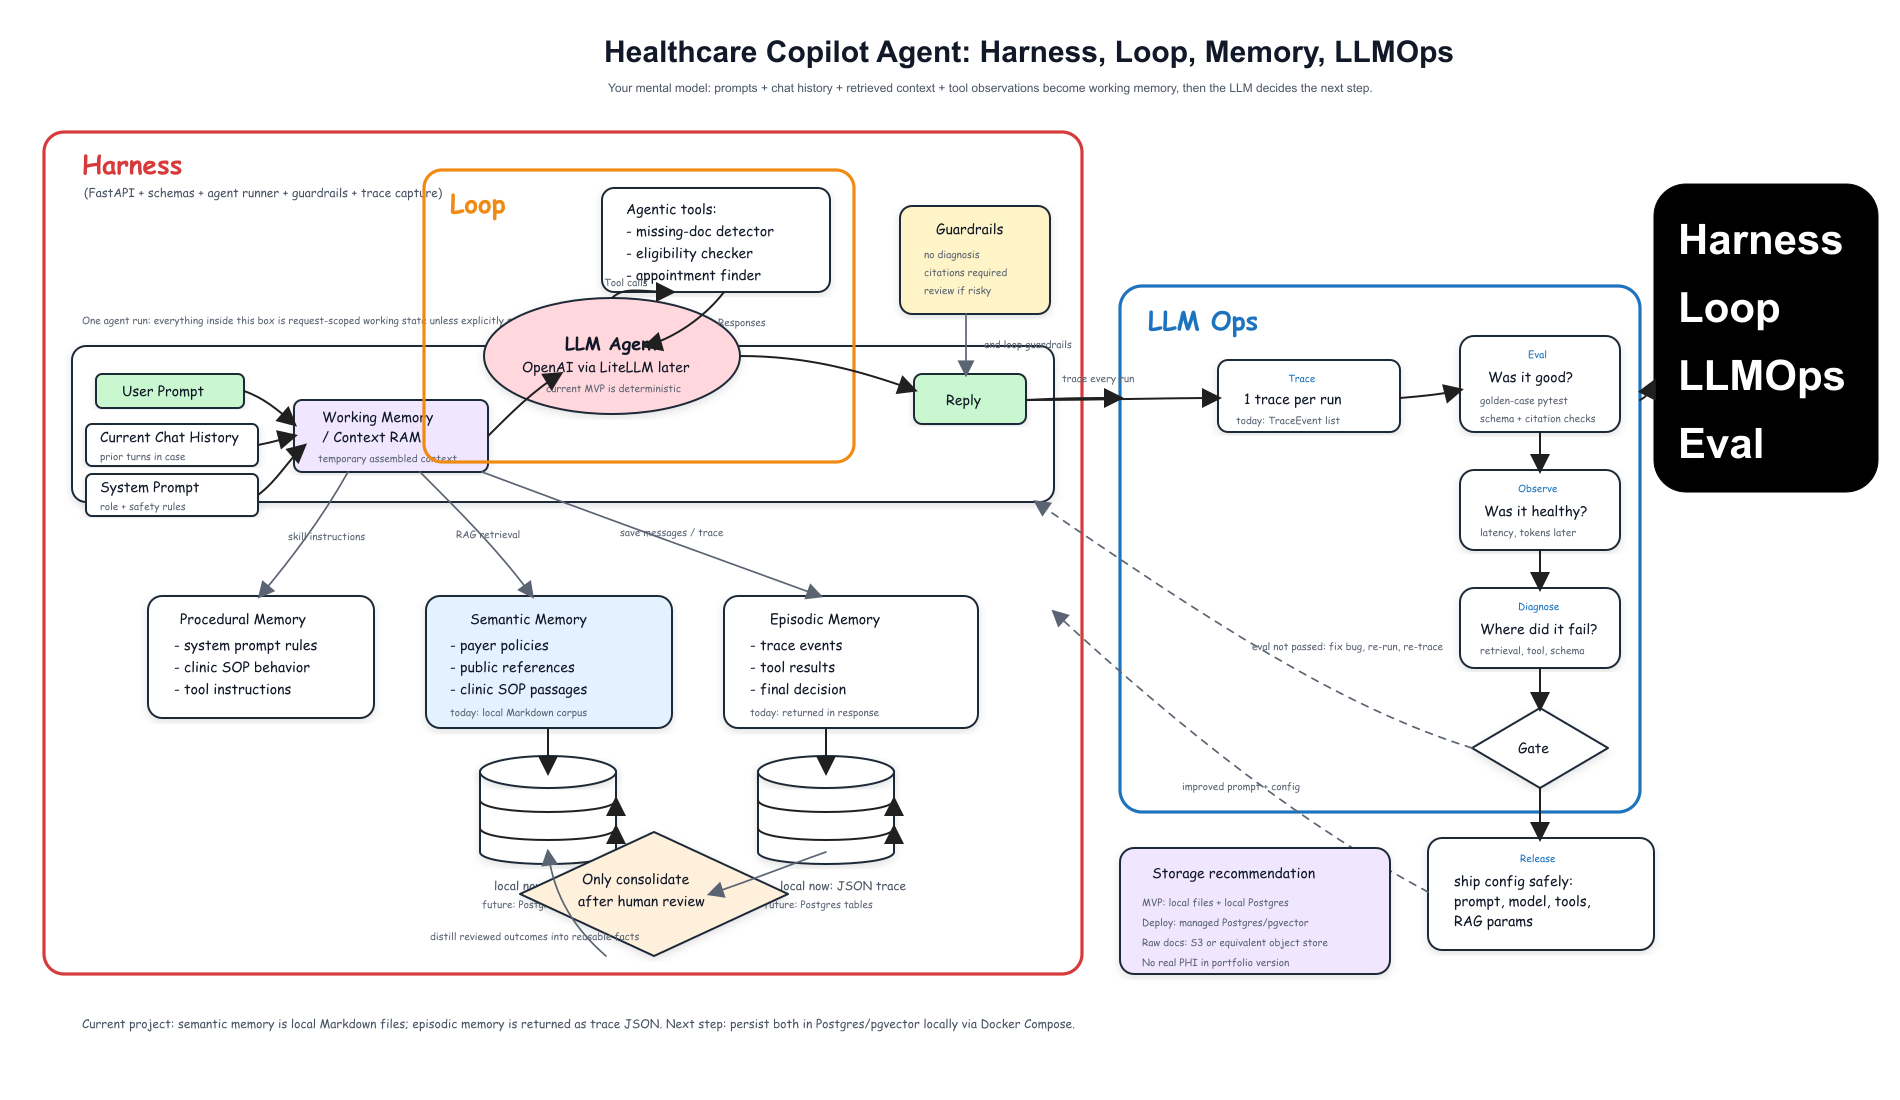
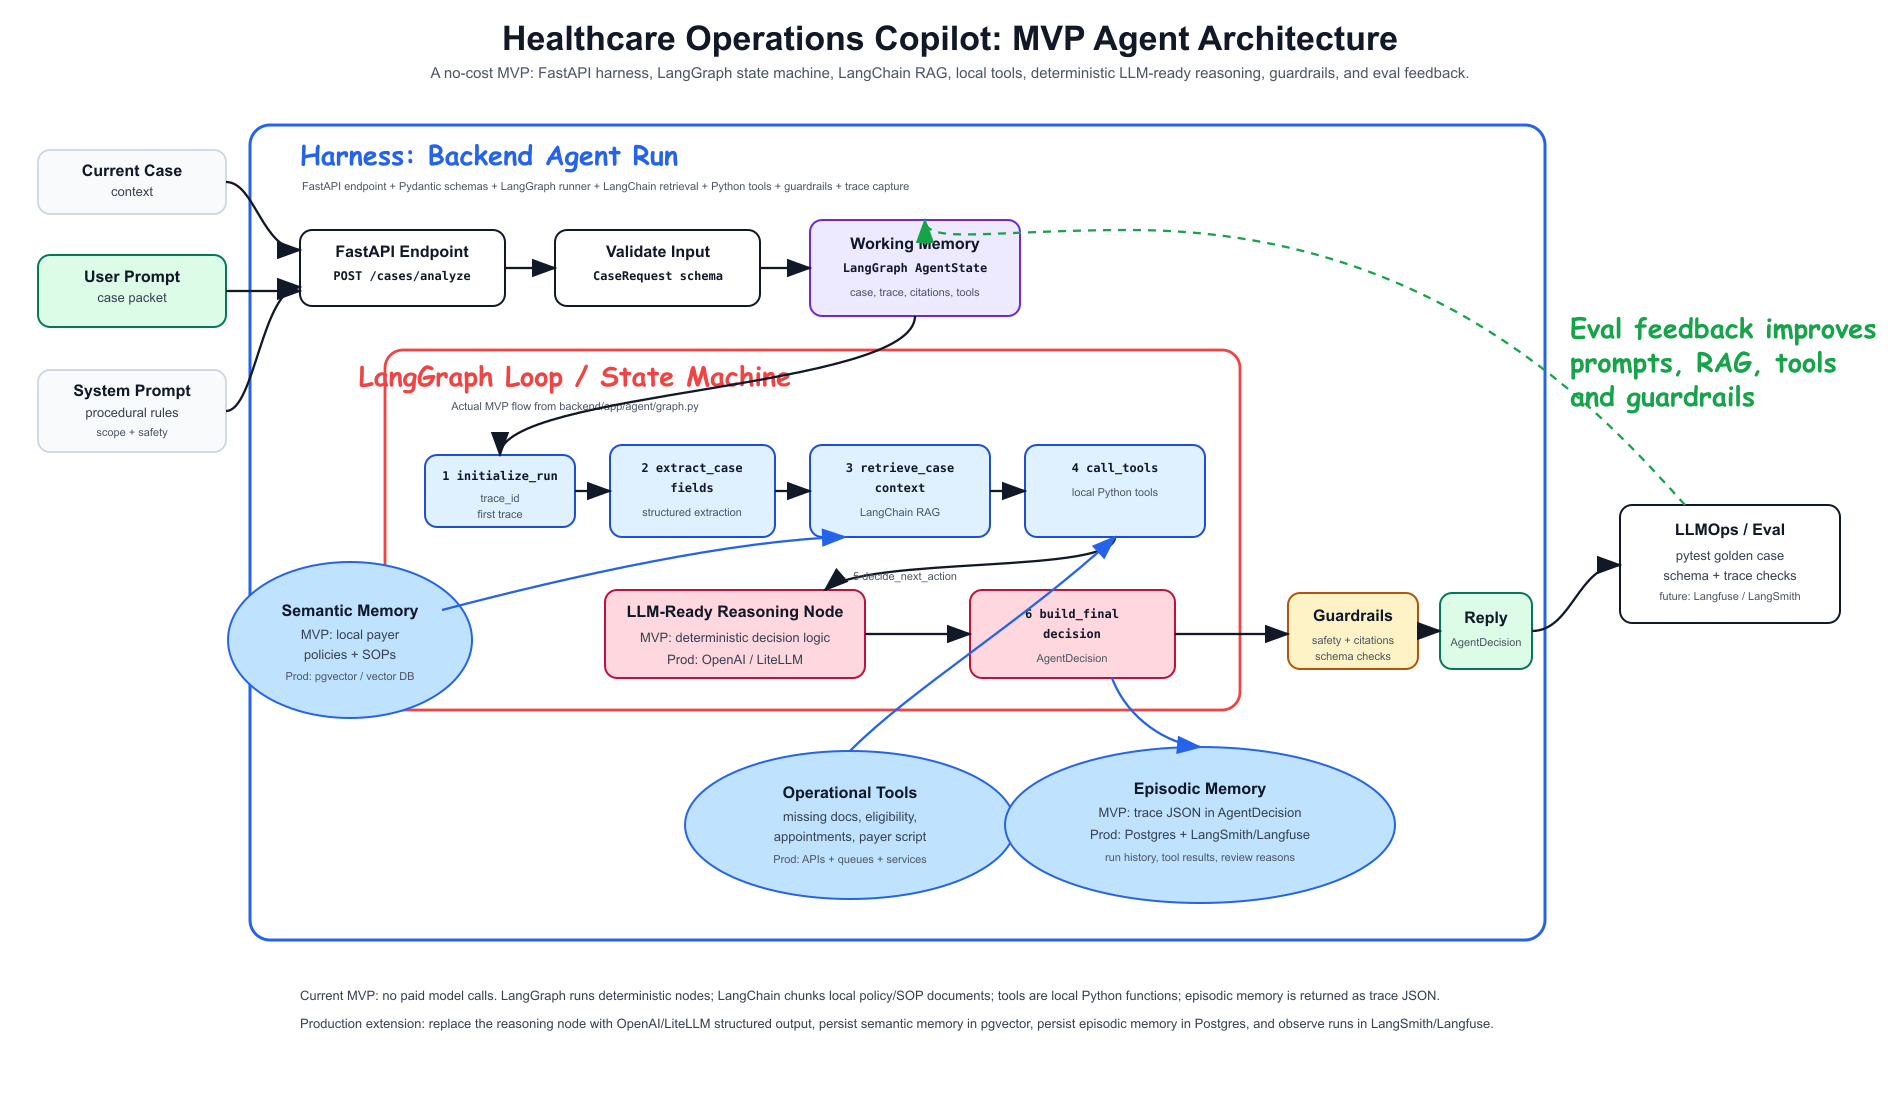
Update healthcare copilot architecture

Changed region(s): [[0.0, 0.0, 0.9937, 0.9582]]

diff --git a/_projects/healthcare_operations_copilot.md b/_projects/healthcare_operations_copilot.md
@@ -7,13 +7,13 @@ importance: 0
 category: portfolio
 ---
 
-Built a production-style healthcare operations copilot that analyzes synthetic referral and intake cases, retrieves payer policy and clinic SOP evidence, calls operational tools, and returns a structured next-action recommendation with confidence, source citations, and human-review flags.
+Built a production-style healthcare operations copilot MVP that analyzes synthetic referral and intake cases, retrieves payer policy and clinic SOP evidence, calls operational tools, and returns a structured next-action recommendation with confidence, source citations, and human-review flags.
 
 GitHub: [marcin-ogrodniczuk/healthcare-ai-agent](https://github.com/marcin-ogrodniczuk/healthcare-ai-agent)
 
-The goal of this project is to demonstrate practical LLM production engineering: not just prompting a model, but building the surrounding harness, agent loop, memory layer, guardrails, evaluation checks, and observability path that make an AI system more reliable.
+The goal of this project is to demonstrate practical LLM production engineering: not just prompting a model, but building the surrounding harness, agent loop, memory layer, guardrails, evaluation checks, and observability path that make an AI system more reliable. The MVP intentionally avoids paid model calls: the LLM-ready reasoning node is deterministic today, with a clear production path to OpenAI or LiteLLM structured output.
 
-**Core workflow.** A user submits synthetic referral notes, insurance details, intake forms, and appointment rules. The system extracts structured fields such as patient need, payer, diagnosis context, urgency, and missing documents. Retrieval then searches policy and SOP knowledge with citations before the agent recommends one of four operational actions: schedule, request missing information, escalate to human review, or draft a payer call script.
+**Core workflow.** A user submits a synthetic case packet with referral notes, insurance details, intake forms, and appointment rules. FastAPI validates the input as a `CaseRequest`, initializes LangGraph `AgentState`, and runs a LangGraph state machine through structured extraction, LangChain RAG, local operational tools, deterministic MVP reasoning, guardrails, and structured `AgentDecision` output.
 
 **Production concepts demonstrated.**
 
@@ -21,8 +21,9 @@ The goal of this project is to demonstrate practical LLM production engineering:
 - LangGraph StateGraph orchestration for the agent run loop
 - Structured extraction with Pydantic schemas and JSON validation
 - Tool calling for eligibility checks, appointment search, missing-document detection, and payer scripts
-- Guardrails for no diagnosis, no unsupported medical advice, PHI-safe logging, and human review routing
-- Agent memory model with procedural memory in code, semantic memory in policy/SOP references, and episodic memory in run traces
+- LLM-ready reasoning node with deterministic MVP logic and a production swap-in path for OpenAI/LiteLLM
+- Guardrails for no diagnosis, no unsupported medical advice, citation checks, and human review routing
+- Agent memory model with procedural memory in code/rules, semantic memory in local policy/SOP references, and episodic memory in run trace JSON
 - Evaluation harness with golden test cases for retrieval quality, schema validity, action selection, and hallucination checks
 - LLMOps path for traces, latency, token cost, model versioning, retrieval quality, and CI/CD eval gates
 
@@ -32,10 +33,10 @@ The goal of this project is to demonstrate practical LLM production engineering:
     </div>
 </div>
 <div class="caption">
-    The architecture separates the agent harness, execution loop, memory stores, and LLMOps evaluation path.
+    The architecture separates the FastAPI harness, LangGraph state machine, semantic and episodic memory, operational tools, guardrails, and external LLMOps evaluation path.
 </div>
 
-**Tech stack.** The MVP uses FastAPI, Pydantic, LangGraph, LangChain text splitters, local policy and SOP documents, synthetic healthcare cases, pytest golden cases, Docker Compose, and a planned Postgres + pgvector memory layer. The portfolio roadmap adds Redis-backed queues, a React review dashboard, Langfuse or OpenTelemetry traces, and GitHub Actions evaluation gates.
+**Tech stack.** The no-cost MVP uses FastAPI, Pydantic, LangGraph, LangChain text splitters, local policy and SOP documents, local Python tools, deterministic decision logic, synthetic healthcare cases, pytest golden cases, and Docker Compose. The production roadmap adds OpenAI/LiteLLM structured output, Postgres + pgvector semantic memory, Redis-backed queues, a React review dashboard, LangSmith/Langfuse or OpenTelemetry traces, and GitHub Actions evaluation gates.
 
 <div class="row">
     <div class="col-sm mt-3 mt-md-0">
